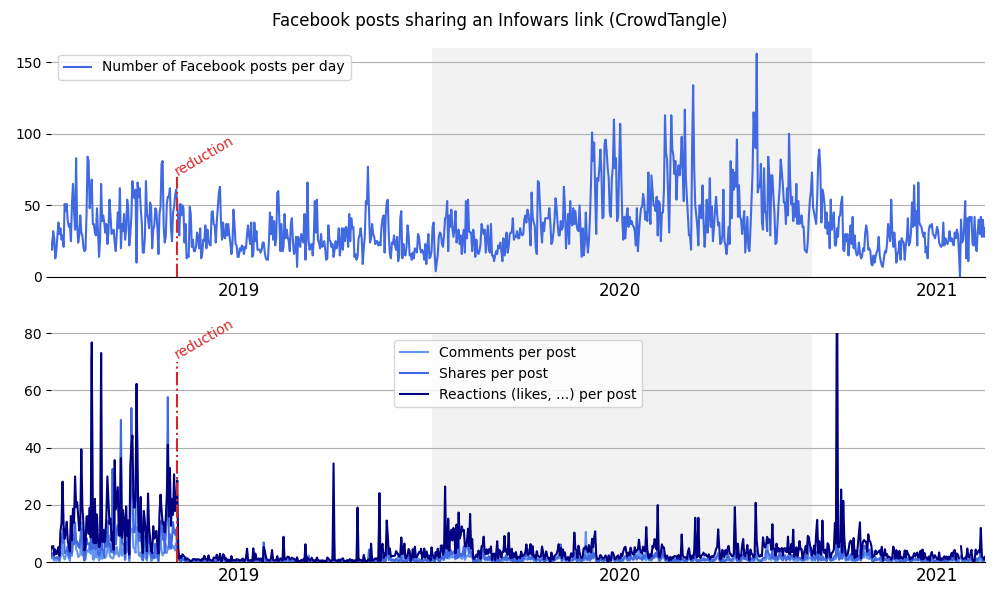
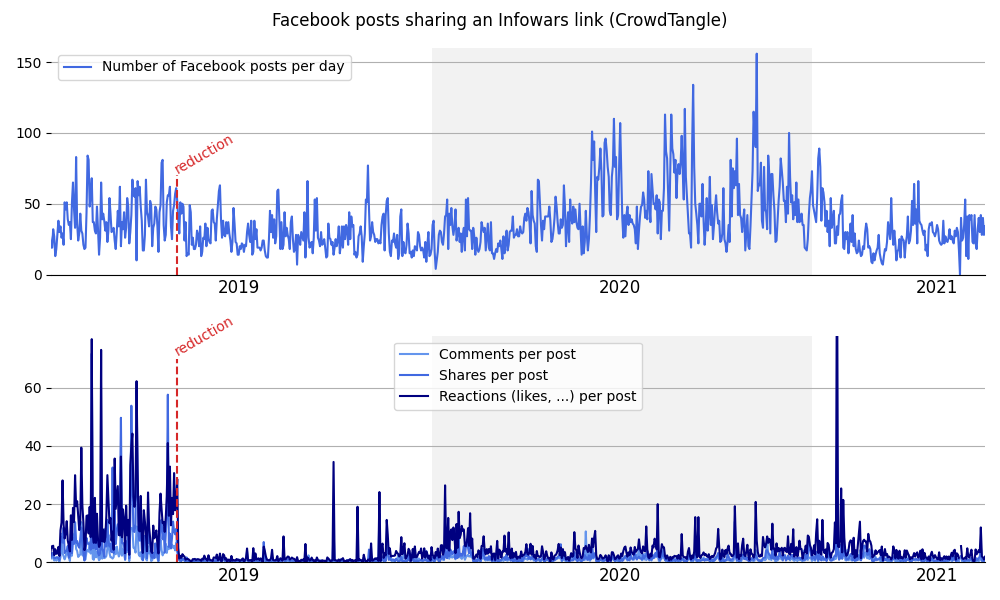
cosmetic changes on the figures

diff --git a/code/create_figures.py b/code/create_figures.py
@@ -30,15 +30,13 @@ def create_suspension_facebook_trump_figure():
         index=[pd.Timestamp(2021, 1, 7), pd.Timestamp(2021, 6, 15)]
     ))
 
-    plt.figure(figsize=(8, 3.5))
+    plt.figure(figsize=(8, 3))
     plt.title(df.account_name.iloc[0])
     plt.plot(serie_to_plot, color='royalblue', label='Number of Facebook posts per day')
     plt.legend()
 
     ax = plt.subplot(111)
-    ax.spines['right'].set_visible(False)
-    ax.spines['left'].set_visible(False)
-    ax.spines['top'].set_visible(False)
+    ax.set_frame_on(False)
     ax.grid(axis="y")
     plt.locator_params(axis='y', nbins=4)
 
@@ -46,6 +44,8 @@ def create_suspension_facebook_trump_figure():
         np.datetime64(datetime.strptime('2019-12-31', '%Y-%m-%d')), 
         np.datetime64(datetime.strptime('2021-06-15', '%Y-%m-%d'))
     )
+    plt.ylim(-1, 55)
+
     xticks = [np.datetime64('2020-01-01'), np.datetime64('2020-04-01'), 
               np.datetime64('2020-07-01'), np.datetime64('2020-10-01'),
               np.datetime64('2021-01-01'), np.datetime64('2021-04-01'),
@@ -80,7 +80,7 @@ def arrange_plot(ax):
     plt.axvspan(np.datetime64('2020-01-01'), np.datetime64('2020-12-31'), 
                 ymin=0, ymax=200000, facecolor='k', alpha=0.05)
 
-    plt.plot([np.datetime64("2019-05-02"), np.datetime64("2019-05-02")], [0, 70], color='C3', linestyle='-.')
+    plt.plot([np.datetime64("2019-05-02"), np.datetime64("2019-05-02")], [0, 70], color='C3', linestyle='--')
     plt.text(np.datetime64(datetime.strptime("2019-05-02", '%Y-%m-%d') - timedelta(days=5)), 
                 71, "reduction", size='medium', color='C3', rotation=30)
 
@@ -124,7 +124,7 @@ def create_facebook_crowdtangle_infowars_figure():
         label="Reactions (likes, ...) per post", color='navy')
     plt.legend()
     arrange_plot(ax)
-    plt.ylim(0, 80)
+    plt.ylim(0, 78)
 
     plt.tight_layout()
     save_figure(figure_name='facebook_crowdtangle_infowars.png')
@@ -132,5 +132,5 @@ def create_facebook_crowdtangle_infowars_figure():
 
 if __name__=="__main__":
 
-    # create_suspension_facebook_trump_figure()
+    create_suspension_facebook_trump_figure()
     create_facebook_crowdtangle_infowars_figure()
